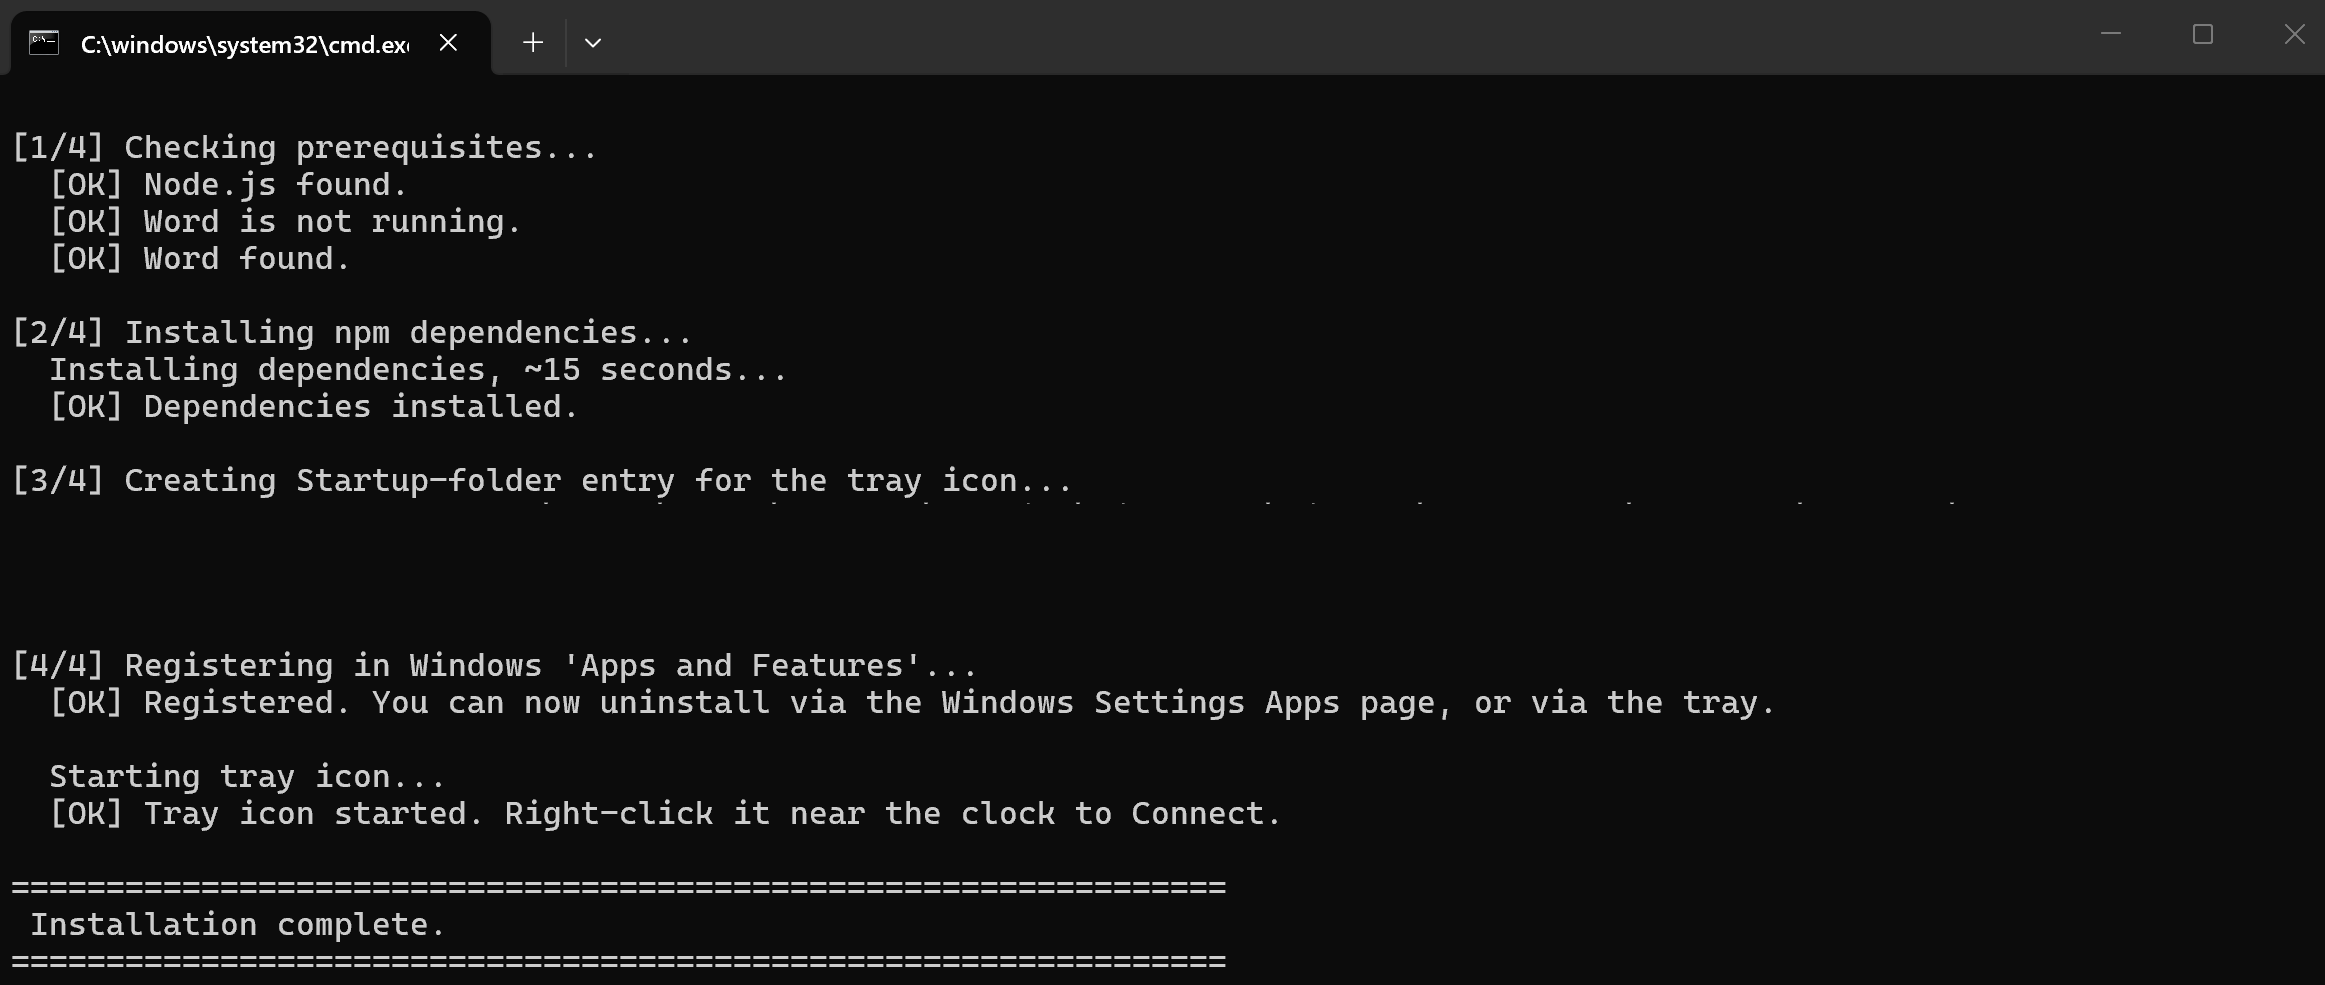
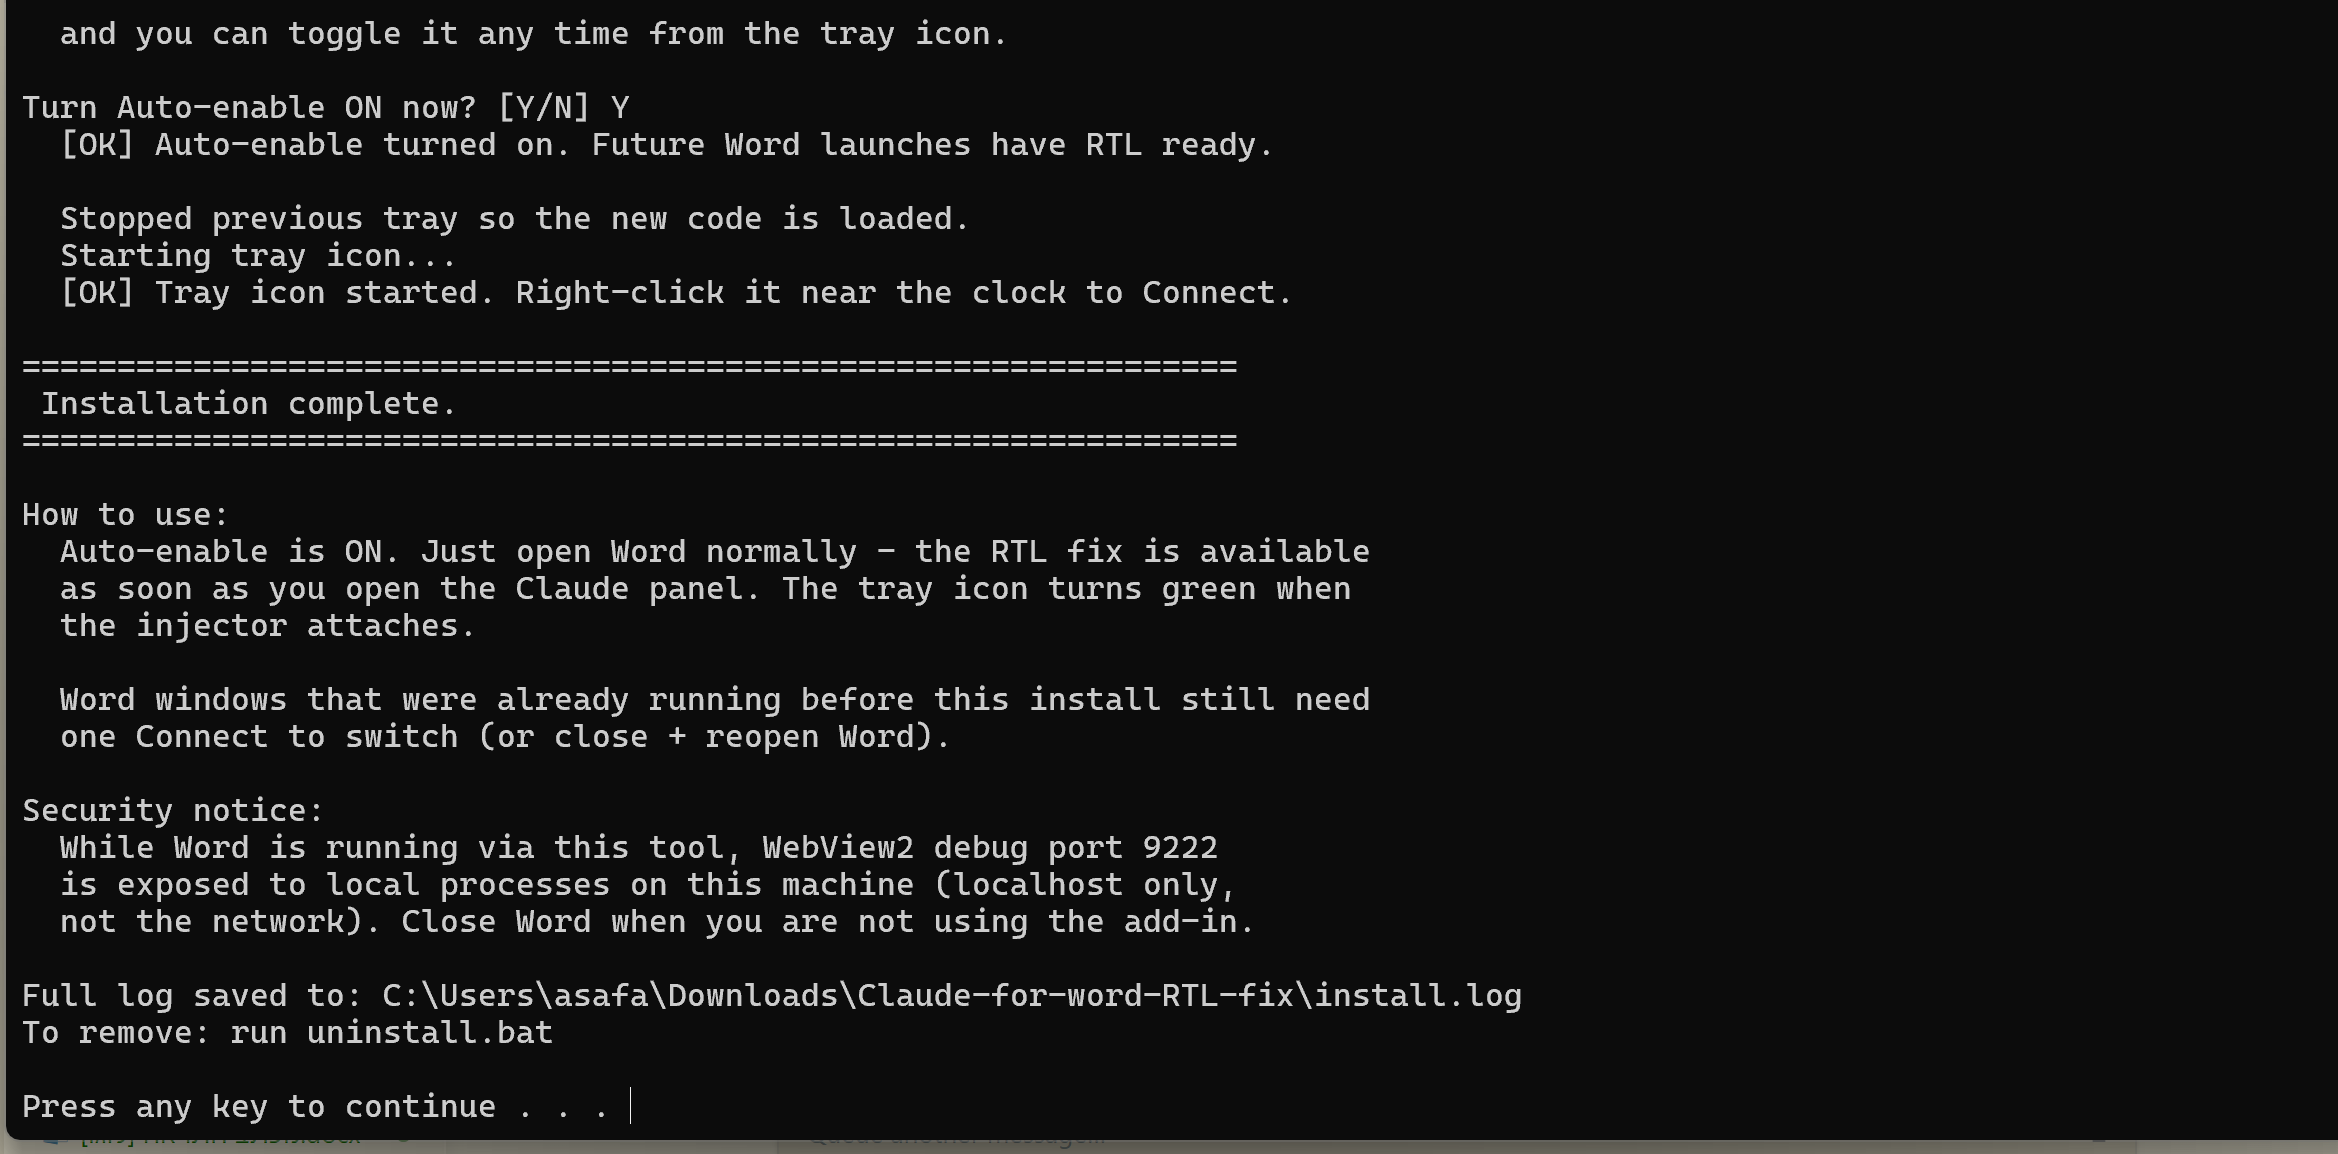
Release v0.1.1
Two bugs that left v0.1.0 users with a red tray even after following
the docs:

- Auto-enable alone did not start the Node injector - the env var let
  Word open the debug port, but nothing attached to it. The tray now
  auto-launches the injector when it sees Word running without a live
  injector, with a 30s cooldown to avoid a crash loop if Node is
  missing.
- install.bat :log helper broke on any logged string containing a
  closing paren because cmd treats ")" inside a parens block as the
  block terminator. Rewritten goto-style.

Upgrade UX:

- install.bat [5/5] asks Y/N about Auto-enable at install time
  (idempotent on reinstall, detects conflicts).
- install.bat stops the previous tray + injector before starting the
  new ones so reinstall-over-top actually loads the new code
  (previously blocked by the tray's singleton mutex).
- Tray "Check for updates" dialog now shows the install folder and
  opens Explorer there, so users know where to extract the zip.
- README leads with a Node.js callout and has an "Updating to a newer
  version" subsection in Hebrew and English.

Version bumped to 0.1.1 in install.bat DisplayVersion, package.json,
and package-lock.json. New installer-done.png screenshot showing the
5-step flow.

diff --git a/CHANGELOG.md b/CHANGELOG.md
@@ -5,6 +5,66 @@ All notable changes to this project will be documented here.
 The format is based on [Keep a Changelog](https://keepachangelog.com/en/1.1.0/),
 and this project adheres to [Semantic Versioning](https://semver.org/).
 
+## [0.1.1] - 2026-04-23
+
+### Fixed
+
+- Tray stays red indefinitely when Auto-enable is on. Auto-enable sets
+  the WebView2 debug flag on Word but does not start the Node injector;
+  `word-wrapper.bat` is the only thing that did, and the wrapper only
+  runs via the tray's Connect action. A user who followed the
+  "Auto-enable = set-and-forget" recommendation would open Word at
+  login, see the tray red, click Connect (which closes and reopens
+  Word), and wonder why Auto-enable did not save them the Connect step.
+  The tray now auto-launches the injector when it sees Word running
+  without a live injector, respecting a 30s cooldown to avoid a spin if
+  Node is missing or crashing on startup. Covers both the Auto-enable
+  path (no wrapper) and the recovery path (injector died while Word
+  stayed up).
+- `install.bat` :log helper truncated or broke on any logged string
+  containing a closing parenthesis ")". The if-else body used cmd
+  parens, and cmd treats ")" inside a parens block as the block
+  terminator regardless of quoting. Rewritten without parens, using
+  labels, so logging arbitrary human text is safe.
+- Reinstall-over-top upgrade path did not actually replace the running
+  tray. The tray's singleton mutex caused the freshly-launched tray to
+  exit silently, leaving the OLD tray-icon.ps1 code in memory until
+  logout. Users who applied a patch via "Check for updates" kept
+  seeing the pre-patch behavior. `install.bat` now stops the previous
+  tray (and injector) via their PID files before starting the new
+  tray, so the upgrade takes effect immediately.
+
+### Changed
+
+- Tray "Check for updates..." dialog, when an update exists, now shows
+  the install folder path and opens Explorer there in addition to the
+  download page. Previously the dialog pointed at the browser download
+  only, leaving the user to remember where they installed and extract
+  in the right place - a common source of failed upgrades.
+- README has a new "Updating to a newer version" subsection (Hebrew
+  and English) spelling out the three-step upgrade: extract over,
+  close Word, run install.bat.
+
+### Changed
+
+- `install.bat` now has a fifth step that prompts the user to turn on
+  Auto-enable at install time (recommended, Y/N prompt). On reinstall,
+  the step detects that the variable is already set to our exact value
+  and skips the prompt silently. On a conflicting value, the warning is
+  folded into the same dialog so the user can make an informed choice.
+  The purpose is to get users out of the clunky close-and-reopen-Word
+  Connect flow for every session - with Auto-enable on, Word just opens
+  with RTL ready.
+- `install.bat` Node.js prerequisite check is louder on failure: a full
+  how-to (download LTS from nodejs.org, install with defaults, verify
+  with `node --version`, re-run install.bat) instead of a terse
+  one-liner. Also warns when Node.js is present but below the
+  recommended v16 floor.
+- README install sections (Hebrew + English) lead with a dedicated
+  Node.js callout before the numbered steps, and the steps now begin
+  with "install Node.js" explicitly. The Auto-enable prompt at the end
+  of install.bat is mentioned in the step list so users expect it.
+
 ## [0.1.0] - 2026-04-21
 
 Initial public release.
